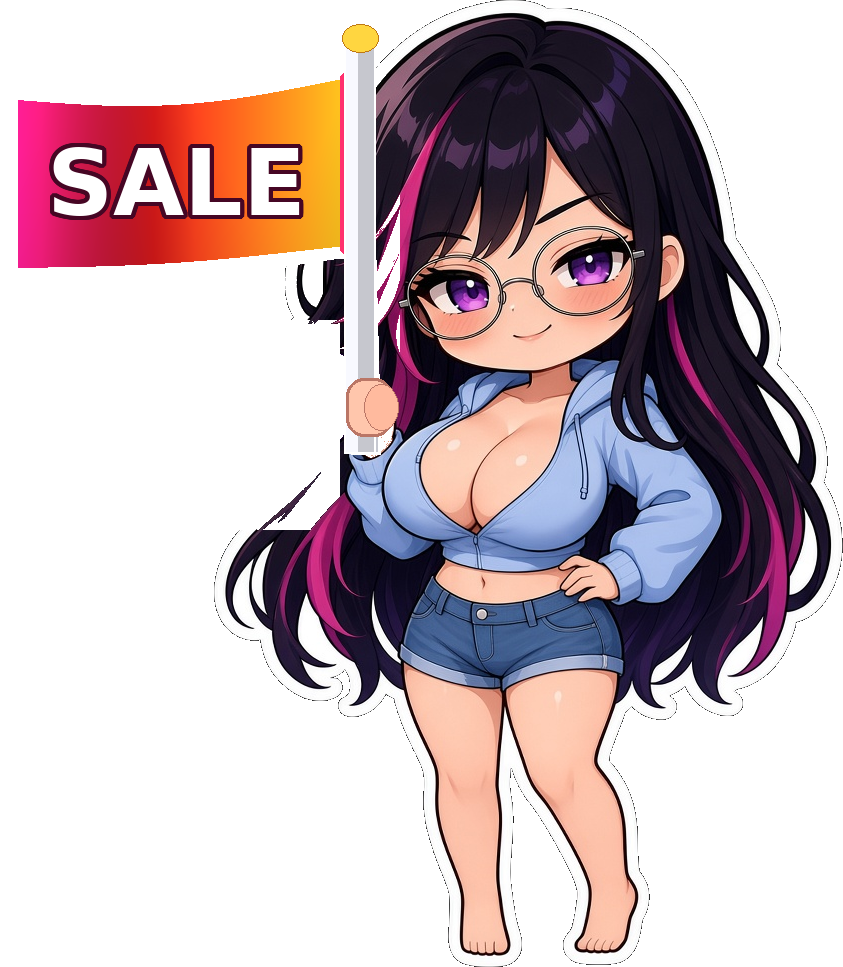
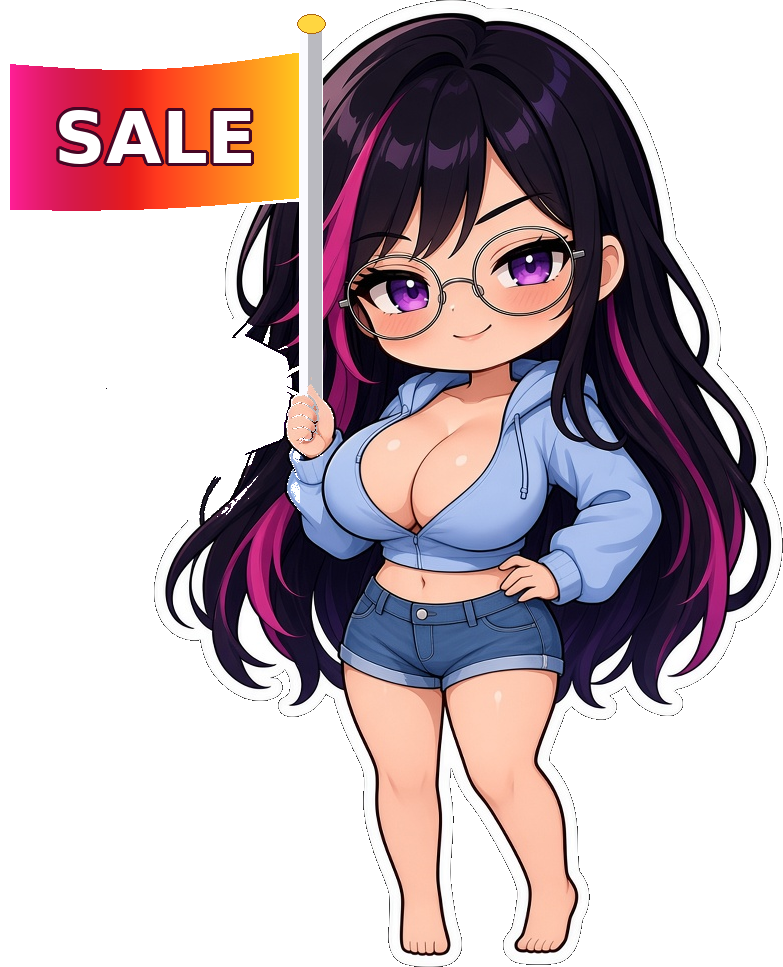
Seat the flag pole in her fist.
The stick was floating beside a pasted oval. It now runs through her original hand, with the thumb and fingers in front of the pole.

diff --git a/src/lib/sale-badge.ts b/src/lib/sale-badge.ts
@@ -1,4 +1,4 @@
-/** Flag chibi. She holds a pole with a waving rectangular cloth, hot pink to gold, and the word SALE fills the cloth. */
+/** Flag chibi. The pole runs through her fist, the cloth is a waving rectangle, hot pink to gold, and SALE fills the cloth. */
 export const SALE_STANDEE_SRC = "/shop/nsfw-droid-shop-vesper-chibi-sale-flag-standee.png";
 
 /** Badge percent for a listing. Hides a sale after saleEndsAt. */
